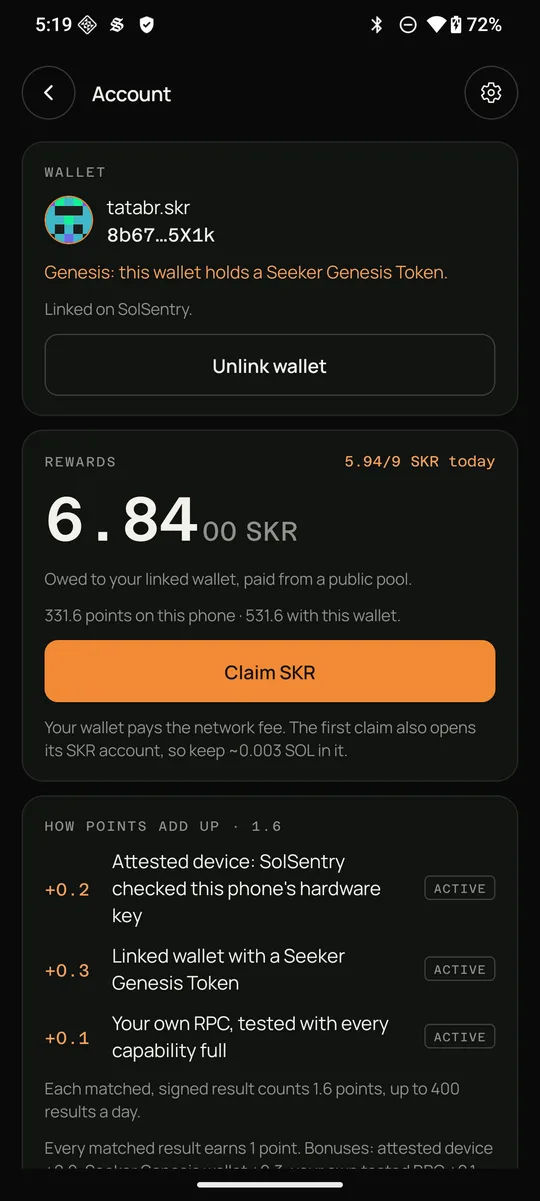
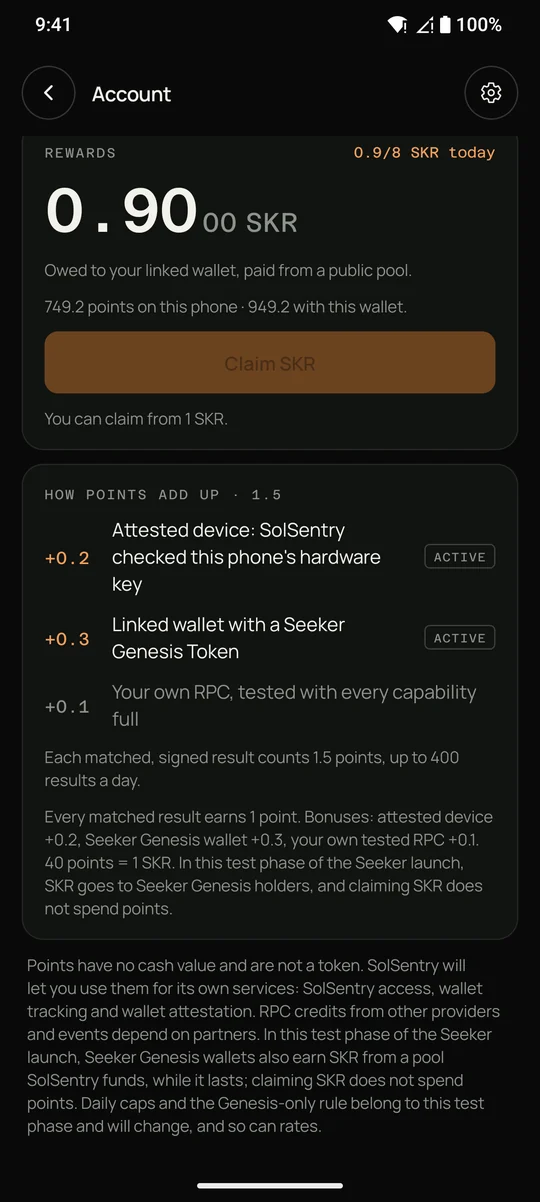
Real 0.1.22 screenshots, Genesis Token image; static images skip the redirect middleware

diff --git a/src/middleware.ts b/src/middleware.ts
@@ -11,5 +11,5 @@ export function middleware(req: NextRequest) {
 }
 
 export const config = {
-  matcher: ["/((?!_next/|favicon|fonts/|logo|\\.well-known/|app/).*)"],
+  matcher: ["/((?!_next/|favicon|fonts/|logo|screens/|genesis-token|\\.well-known/|app/).*)"],
 };
